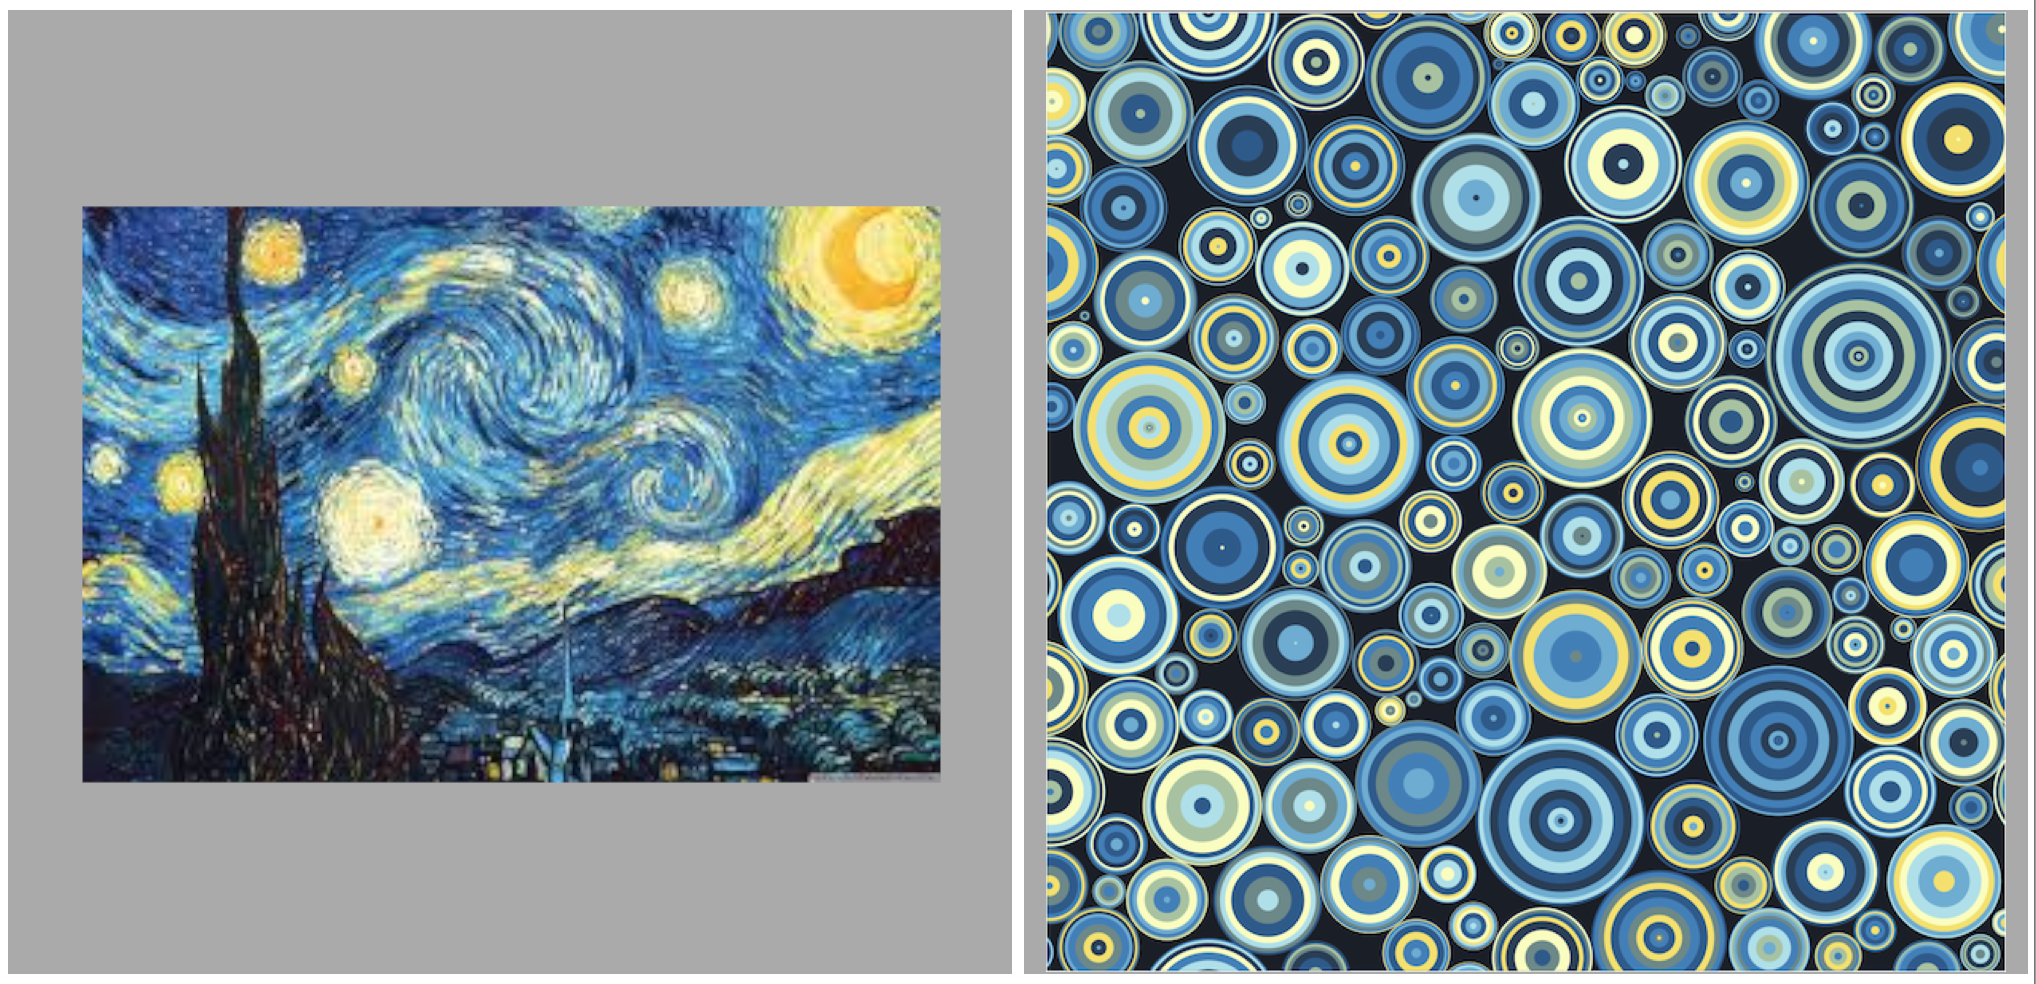
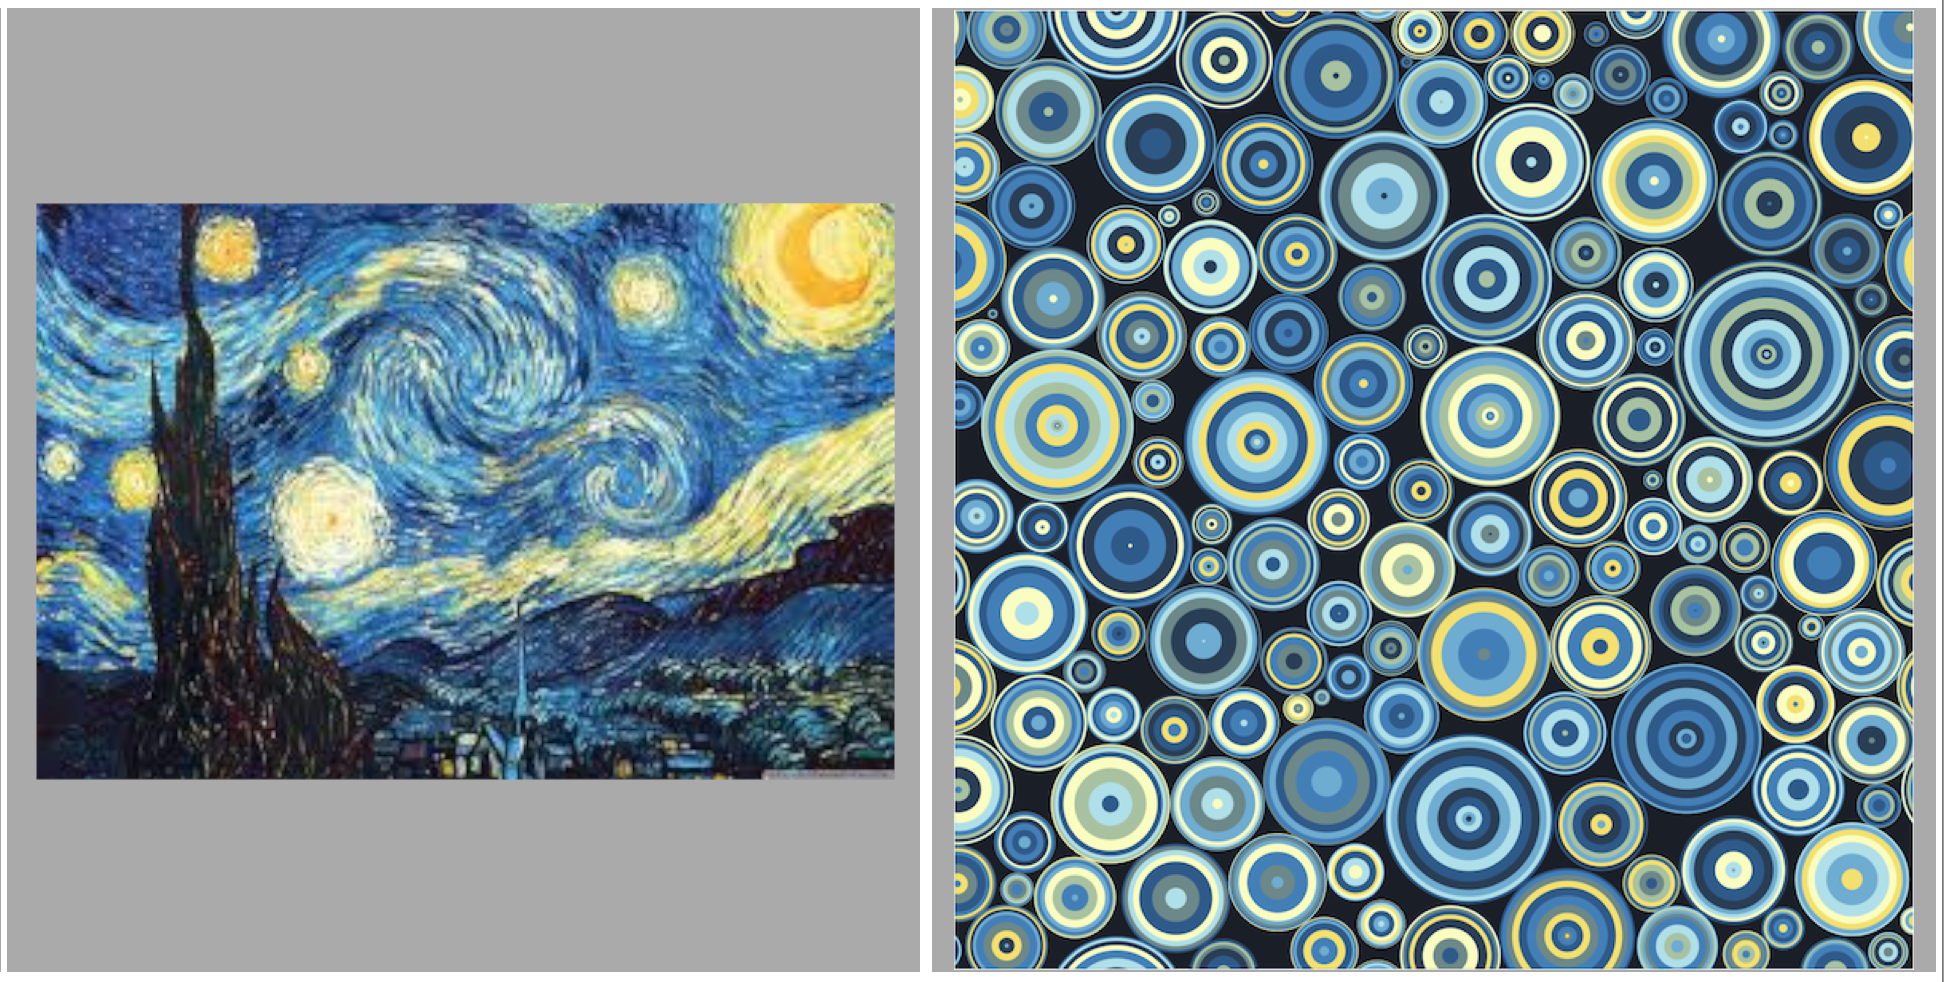
circles update. added shirt.html

diff --git a/circles/shirt.html b/circles/shirt.html
@@ -79,15 +79,6 @@ label[i] = 'baden_powell'
 
 i = i + 1
 slideimages[i] = new Image() // create new instance of image object
-slideimages[i].src = "apothekersdijk.jpg" // set image object src property to an image's 
-comment[i] = "Apothekersdijk (Leiden)"
-slideimages2[i] = new Image() // create new instance of image object
-slideimages2[i].src = "apothekersdijk_200c_v2pt4_36palettes.png" // set image object src property to 
-comment2[i] = "f(Apothekersdijk)" 
-label[i] = 'apothekersdijk'
-
-i = i + 1
-slideimages[i] = new Image() // create new instance of image object
 slideimages[i].src = "tulips4.jpg" // set image object src property to an image's 
 comment[i] = "Keukenhof IV"
 slideimages2[i] = new Image() // create new instance of image object
@@ -191,7 +182,7 @@ document.getElementById('preview_image').content = slideimages2[step].src
     
     p {
     font-family: "Arial", Arial, sans-serif;
-    font-size: 88%;
+    font-size: 100%;
 	} 
 
 	</style>
@@ -268,6 +259,7 @@ function togglestyle_how(el){
 
 	
 </head>
+
 <body>
 
 
@@ -285,34 +277,22 @@ function togglestyle_how(el){
 </div>
 
 
-<table width=100%>
+<table height=90% width=100%>
 <tr >
-<td width=3%>
-<td style="width:43%;min-width:500px;" bgcolor="#AAAAAA" align="center">
-<img id="slide" style="width=90%;max-width:480px;max-height:480px;"/>
-</td>	
-<td width = 8%></td>
-<td style="width:43%;min-width:500px;" bgcolor="#AAAAAA" align="center">	  
-<img id="slide2" style="width=90%;max-width:480px;max-height:480px;"/>
-</td>
-</tr>
-<tr>
-<td width=3%>
-<td width=43% bgcolor="#FFFFFF" align="left" valign="top">
-<p id="insp_comment">
-</td>	
-<td width = 4%></td>
-<td width=45% bgcolor="#FFFFFF" align="left" valign="top">	  
-<p id="output_comment">
-<!--
-<p><img src="https://secure.gravatar.com/avatar/1a5e33c07da3f61716b593cbeb9fbdad.png?r=pg&s=240&d=https://www.kaggle.com/content/shared/img/default-avatar.png" width="20px"> Python, physical simulation of bubbles with viscous drag, colours sampled from image at left using k-means</p>
--->
-
+<td align='center' >
+	  
+<img src='circle_shirt.jpg' style="max-height:700px;"/>
 
 </td>
+</tr>
 
+<tr valign='top'>
+<td align='center'>
+<p>"Mamangua" men's shirt [<a href="http://www.spoonflower.com/fabric/3716499">buy fabric</a>]</p>
+</td>
 
 </tr>
+
 
 </table>	
 	
@@ -339,19 +319,17 @@ var msnry = new Masonry( container, {
 <a href="http://small-yellow-duck.github.io/" border=0><img src='https://secure.gravatar.com/avatar/1a5e33c07da3f61716b593cbeb9fbdad.png?r=pg&s=240&d=https://www.kaggle.com/content/shared/img/default-avatar.png' width='22px'></a> 
 </td>
 <td>
-<input type="button" id="btn" value="pause" class="on" onclick="togglestyle(this)" />
+<input type="button"  style="font-size:88%" id="btn_how" value="back to gallery" class="on" onclick="location.href='index.html'" />
 
-<input type="button" id="btn_how" value="how it works" class="on" onclick="togglestyle_how(this)" />
+<input type="button" style="font-size:88%" id="goto_app" value="app (upload your photo)" class="on" onclick="location.href='http://circadelic-design.appspot.com'" />
 
-<input type="button" id="goto_app" value="app (upload your photo)" class="on" onclick="location.href='http://circadelic-design.appspot.com'" />
 
-<input type="button" id="goto_fabric" value="make a shirt" class="on" onclick="location.href='shirt.html'" />
 </td>
 
 <td align="right">
 <div class="fb-share-button" data-href="http://small-yellow-duck.github.io/circles/index.html" data-layout="button"></div>
 
-<a href="https://twitter.com/share" class="twitter-share-button" data-url="http://small-yellow-duck.github.io/circles/index.html" data-text="create a colourful circle packing from a photograph" data-via="dr_fivecents" data-count="none">Tweet</a>
+<a href="https://twitter.com/share" style="font-size:100%" class="twitter-share-button" data-url="http://small-yellow-duck.github.io/circles/index.html" data-text="create a colourful circle packing from a photograph" data-via="dr_fivecents" data-count="none">Tweet</a>
 </td>
 </tr>
 
@@ -369,80 +347,7 @@ var msnry = new Masonry( container, {
 }(document, 'script', 'facebook-jssdk'));</script>
 
 
-<script type="text/javascript">
 
-//variable that will increment through the images
-var step=0
-
-function slideit(){
- //if browser does not support the image object, exit.
- if (!document.images)
-  return
-
-  var pathArray = document.URL.split( '#' );
-  
-  if (pathArray.length > 1)
-  {
-  step = -1
-  
-  for (var i = 0; i < label.length; i++) 
-  {
-    if (label[i] == pathArray[1])
-    {
-       step = i
-       document.getElementById('btn').className = 'off'
-       document.getElementById('btn').value = 'play'
-       break
-     }  
-   }
-
-    if (step == -1)
-   {
-     document.location.href = pathArray[0]
-     step = 0
-    } 
-    
-  }
-  
-  
-   
-
-    
-  if (btn.value=='pause')
- {
- 
- document.getElementById('slide').src = slideimages[step].src
- document.getElementById('slide2').src = slideimages2[step].src
- document.getElementById('insp_comment').innerHTML = comment[step]
- document.getElementById('output_comment').innerHTML = comment2[step] 
- document.getElementById('img_label').innerHTML = comment2[step] 
- document.getElementById('preview_image').content = slideimages2[step].src
- 
- if (step<slideimages.length-1) 
-  step++
- else
-  step=0
- } 
- 
-  if (btn.value=='play' && document.getElementById('slide').src=='')
- {
-
- document.getElementById('slide').src = slideimages[step].src
- document.getElementById('slide2').src = slideimages2[step].src
- document.getElementById('insp_comment').innerHTML = comment[step]
- document.getElementById('output_comment').innerHTML = comment2[step] 
- document.getElementById('img_label').innerHTML = document.URL
- document.getElementById('preview_image').content = slideimages2[step].src 
- }   
-
- //call function "slideit()" every 5.0 seconds
- setTimeout("slideit()",5000)  
-
-}
-
-slideit()
-
-</script>
 
 
 
@@ -454,40 +359,6 @@ slideit()
 <div id="blah" style="display:none;">
 
 
- <table>
-
-<td width = 3%></td>
-<td width=300>
-
-<a href="http://dutw1479.wbmt.tudelft.nl/~btighe/research.html"><img src="http://dutw1479.wbmt.tudelft.nl/~btighe/images/foam_demo.gif" width= 300></a>
-<p>physics simulation of soap bubbles (these are real bubbles in <a href="http://www.research.ed.ac.uk/portal/en/persons/gijs-katgert%2858b39da5-7378-408f-842a-ddfeaf3508e7%29.html">Gijs's experiment</a>).
-</td>
-<td><h2>+</h2></td>
-<td width=300>
-<table>
-<tr>
-<img src="tulips1.jpg" width= 300>
-</tr>
-<tr>
-<img src="tulips1_palette.png" width= 300>
-</tr>
-</table>
-<p>the colour palette for a photograph constructed using a cluster-finding algorithm called k-means
-</td>
-
-<td><h2>=</h2></td>
-
-<td width=300>
-<!-- img src="shafie5_1000iter_5_colourbalanced2.png" width= 300 -->
-<img src="tulips1_150c_v2pt4.png" width=300>
-<p>ART
-</td>
-
-</td>
-
-
-
-</table>
 
 
 
